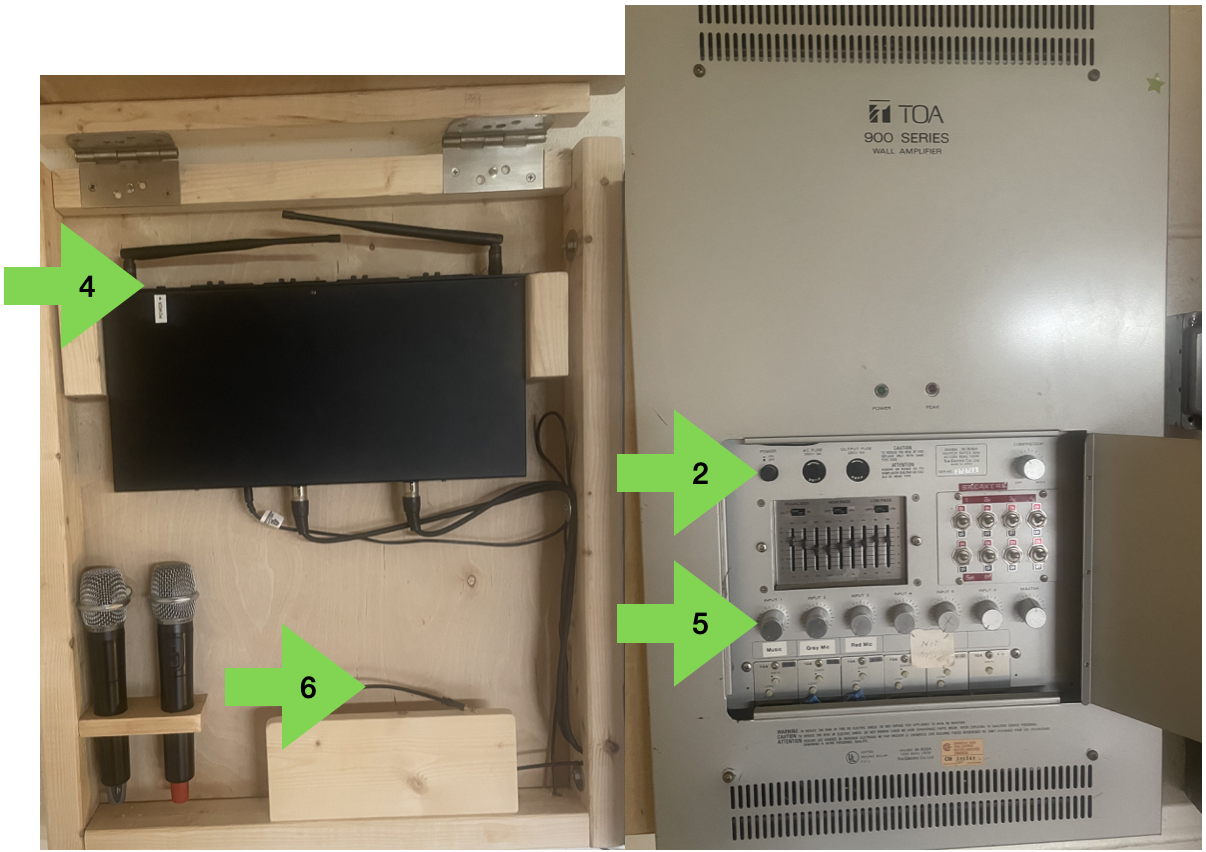
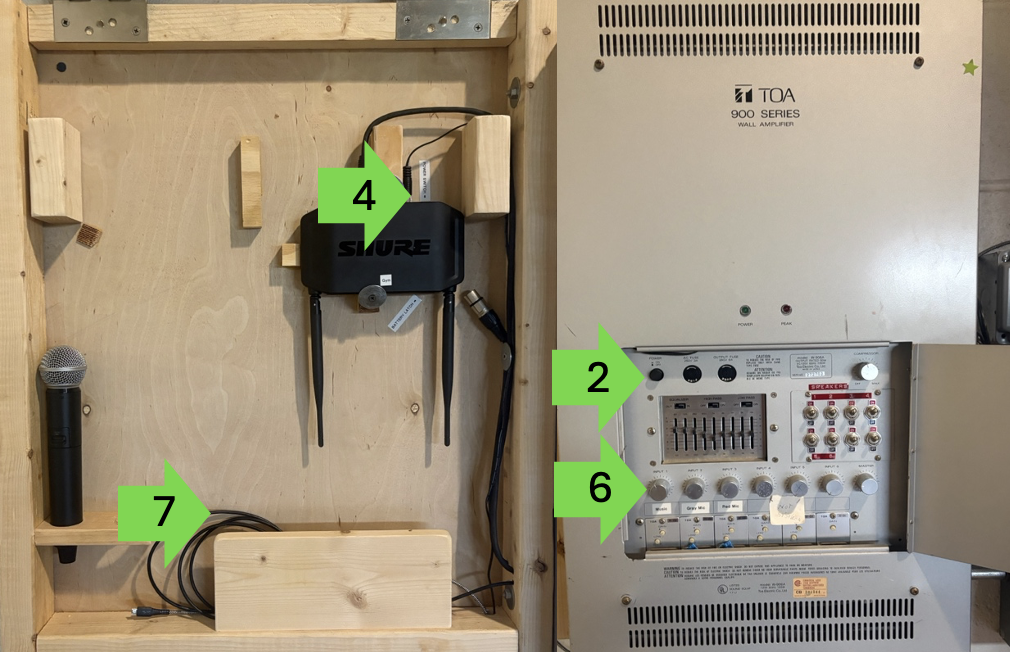
Updated Gym Mic Instructions

diff --git a/basic-guides/gym-sound.md b/basic-guides/gym-sound.md
@@ -19,19 +19,26 @@ nav_order: 8
 1. Press the On/Off button (see #2)
    - Ensure you press to turn speakers off when you are done
 
-# Turning Mics On/Off
+# Turning Mic On/Off
 1. Open the lid of the wooden box (see #3)
 1. Flip the power switch on the top of the black box (see #4)
    - Ensure you flip the switch to off when you are done
-1. Flip switches on microphones to turn them on/off
-   - Mics use AA batteries and may not work if they were left on last time they were used
-1. Use dials 2 & 3 to turn the mics up/down (see #5)
+1. Press putton labeled "Battery Latch" on black box to pop out microphone battery (see #5)
+1. Insert battery into microphone by unscrewing base of microphone and inserting battery
+    - Battery only goes in one way, don't force it
+    - When screwing the base back onto microphone don't overtighten
+1. Flip switch on microphone to turn it on/off
+1. Use dial 2 to turn the mic up/down (see #6)
+1. Push battery back into receiver when done
+    - Light should turn on when pressed all the way in
 
 # Playing Music
 1. Open lid of wooden box (see #3)
-1. Plug your device (phone/tablet/etc) to the plug near the bottom of the box (see #6)
-1. Use dials 2 & 3 to turn the mics up/down (see #5)
+1. Plug your device (phone/tablet/etc) to the plug near the bottom of the box (see #7)
+1. Use dial 1 to turn the music up/down (see #6)
 
 ![Sound System 1](/tech-help-docs/assets/images/basic-guides/gym-sound/1.png){:height="300px" width="300px"}
 
-![Sound System 2](/tech-help-docs/assets/images/basic-guides/gym-sound/2.png){:height="300px" width="500px"}
+![Sound System 2](/tech-help-docs/assets/images/basic-guides/gym-sound/2.png){:height="300px" width="300px"}
+
+![Sound System 3](/tech-help-docs/assets/images/basic-guides/gym-sound/3.png){:height="300px" width="300px"}
